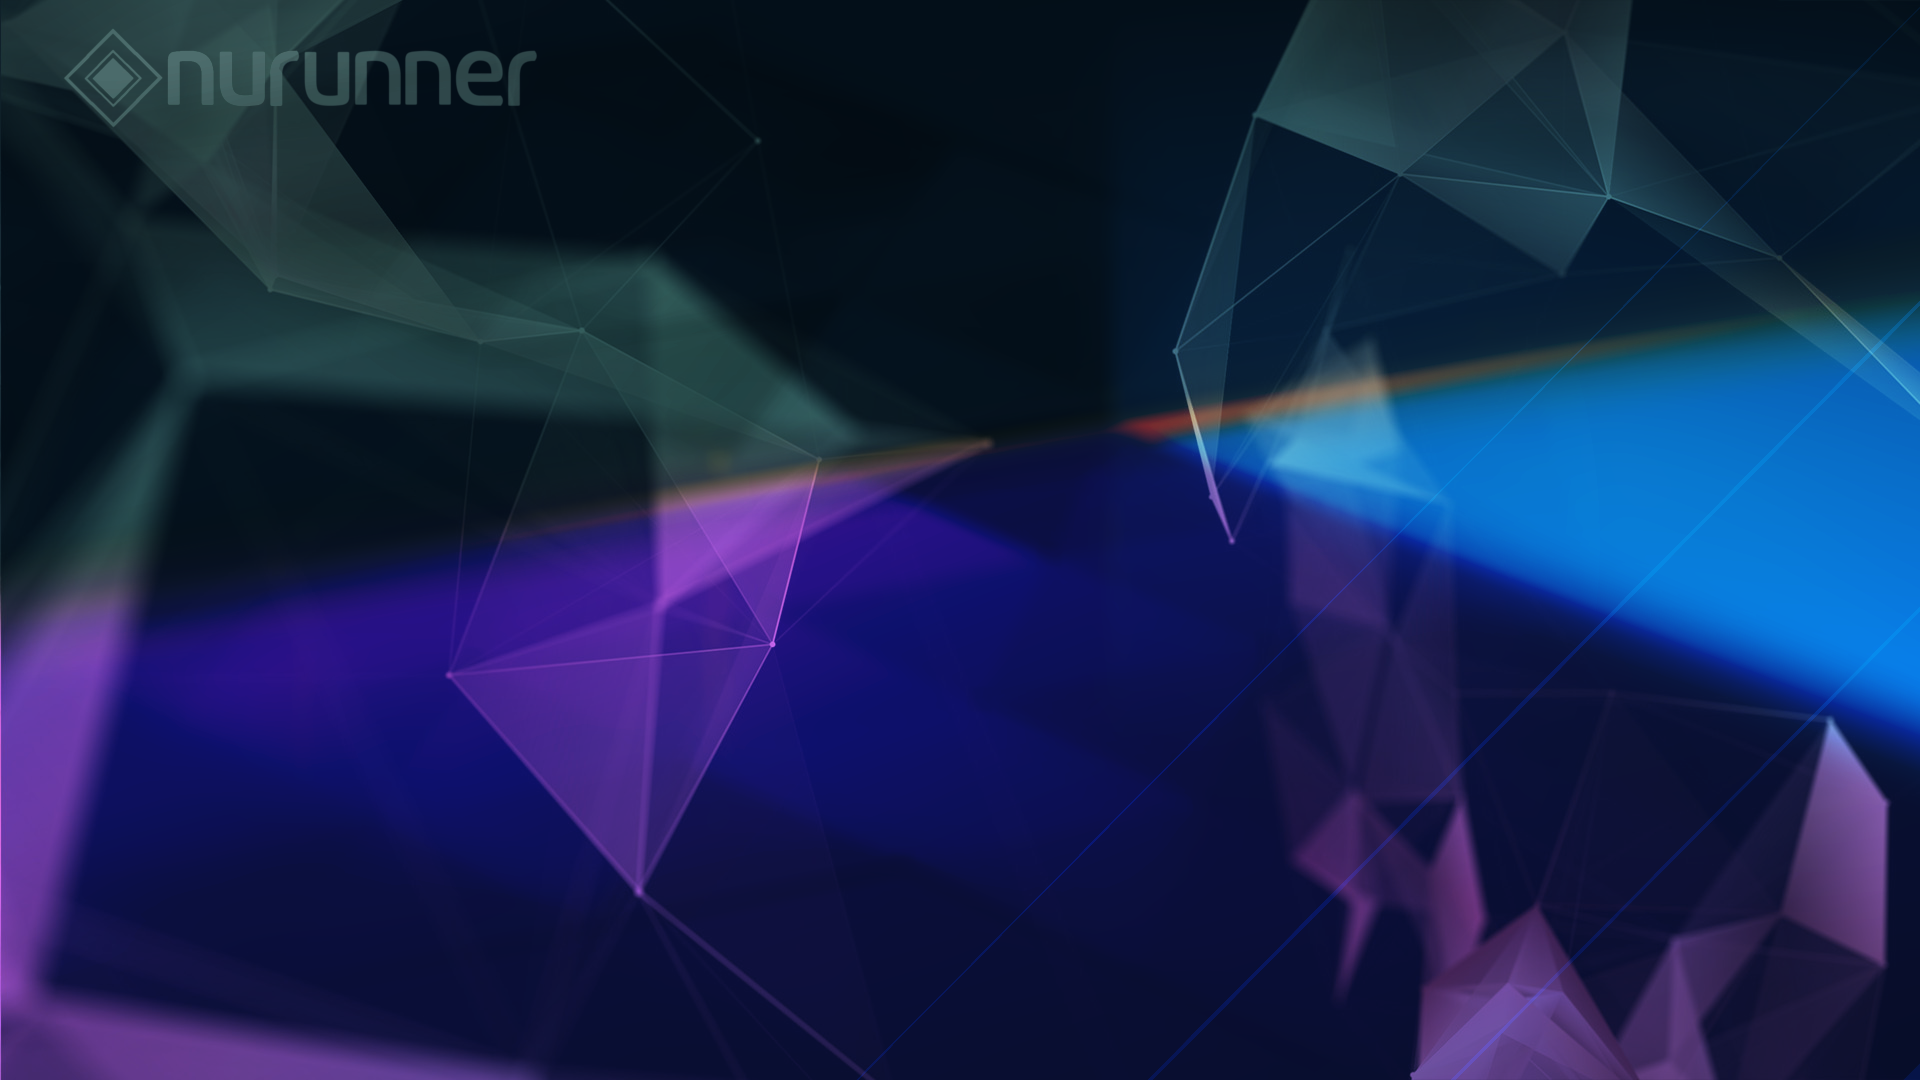
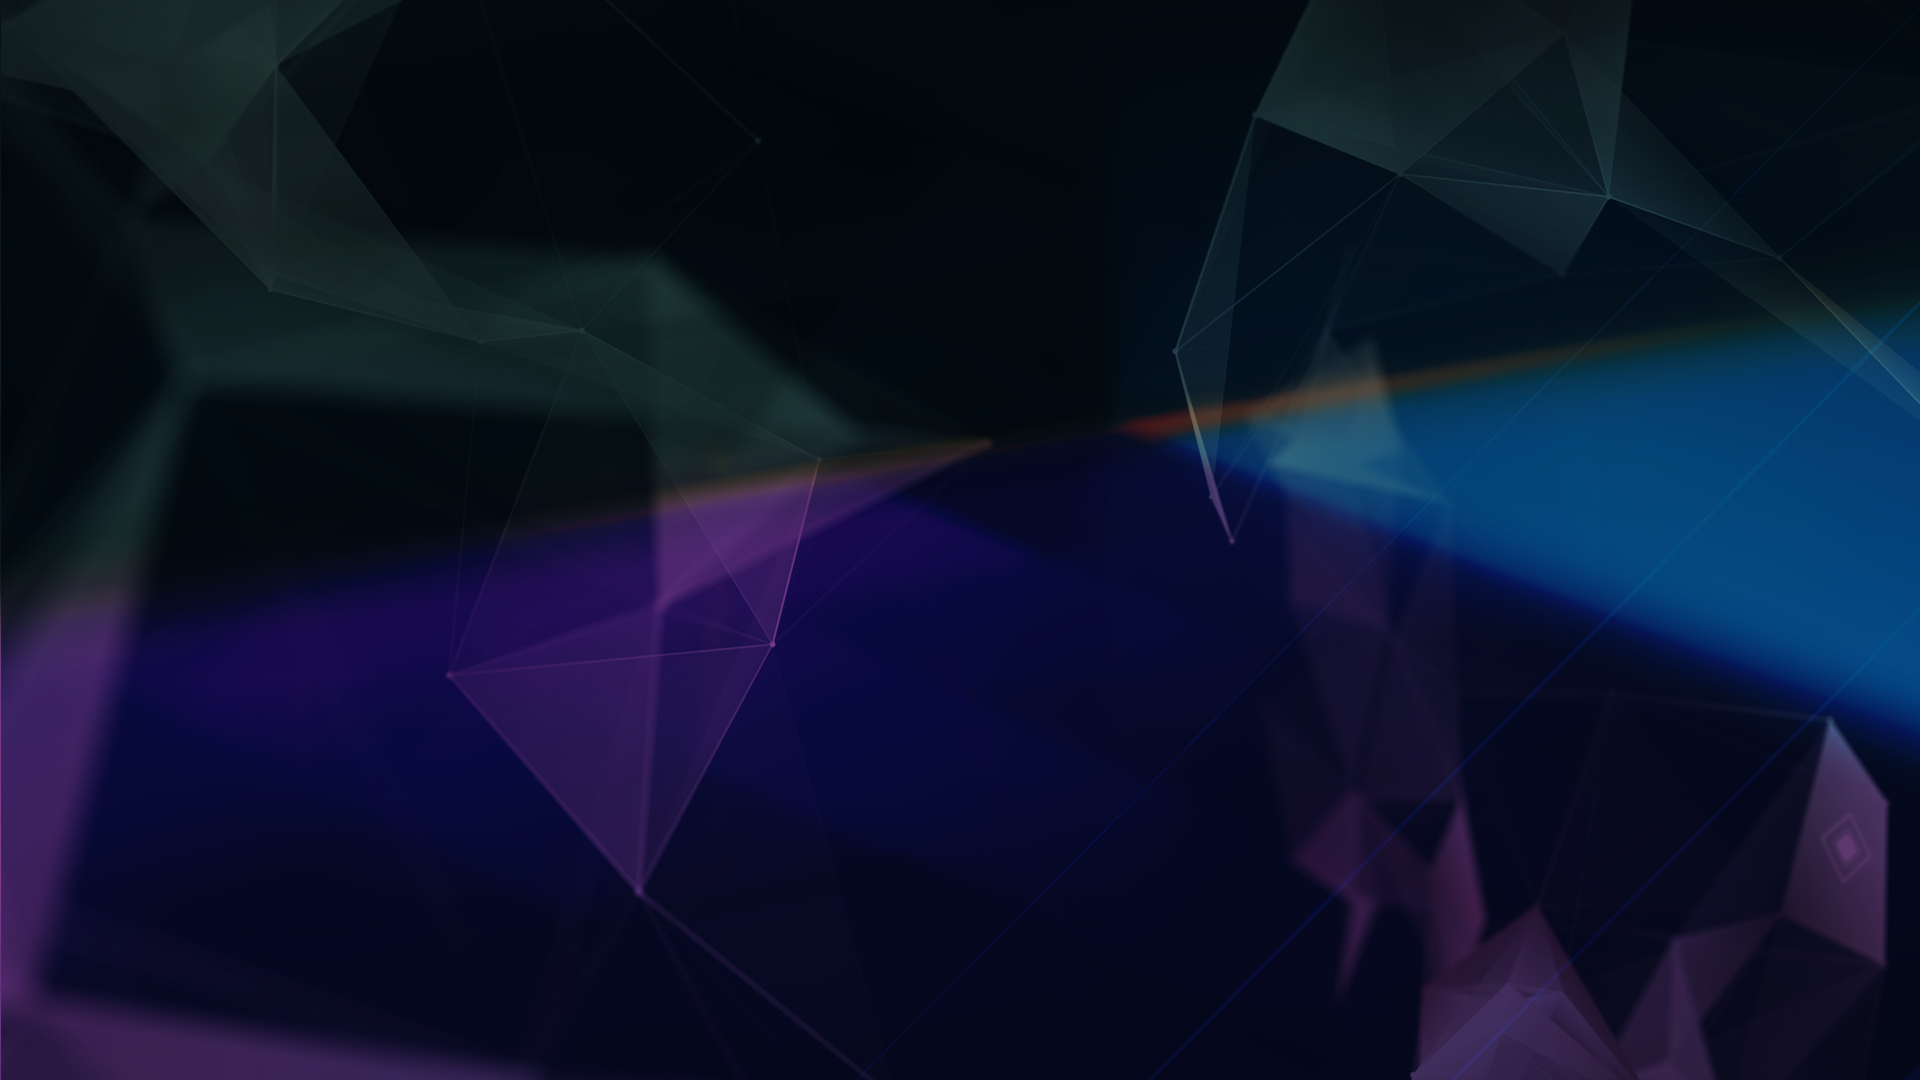
modified splash image + bug fixes

diff --git a/usr/share/plasma/look-and-feel/org.kde.maui.desktop/contents/layouts/org.kde.plasma.desktop.defaultPanel/contents/layout.js b/usr/share/plasma/look-and-feel/org.kde.maui.desktop/contents/layouts/org.kde.plasma.desktop.defaultPanel/contents/layout.js
@@ -37,7 +37,7 @@ kicker.currentConfigGroup = ["General"]
 //kicker.writeConfig("customButtonImage", "file:///usr/share/icons/hicolor/scalable/apps/homerun.svg")
 kicker.writeConfig("favoriteApps", ["systemsettings.desktop","synaptic.desktop","org.kde.ksysguard.desktop","vokoscreen.desktop"])
 kicker.writeConfig("limitDepth", true)
-kicker.writeConfig("useCustomButtonImage", true)
+//kicker.writeConfig("useCustomButtonImage", true)
 
 var eitm = panel.addWidget("org.kde.plasma.icontasks")
 eitm.currentConfigGroup = ["Configuration", "General"]
@@ -67,6 +67,6 @@ systrayContainment.writeConfig("knownItems","org.kde.discovernotifier,org.kde.pl
 systrayContainment.writeConfig("shownItems", "transmission")
 
 panel.addWidget("org.kde.plasma.digitalclock")
-panel.addWidget("org.kde.plasma.notifications")
+//panel.addWidget("org.kde.plasma.notifications")
 
 

diff --git a/usr/share/plasma/look-and-feel/org.kde.maui.desktop/contents/plasmoidsetupscripts/org.kde.plasma.kicker.js b/usr/share/plasma/look-and-feel/org.kde.maui.desktop/contents/plasmoidsetupscripts/org.kde.plasma.kicker.js
@@ -5,6 +5,6 @@ applet.currentConfigGroup = ["General"]
 //applet.writeConfig("customButtonImage", "file:///usr/share/icons/hicolor/scalable/apps/homerun.svg")
 applet.writeConfig("favoriteApps", ["systemsettings.desktop","synaptic.desktop","org.kde.ksysguard.desktop"])
 applet.writeConfig("limitDepth", true)
-applet.writeConfig("useCustomButtonImage", true)
+//applet.writeConfig("useCustomButtonImage", true)
 
 applet.reloadConfig();
